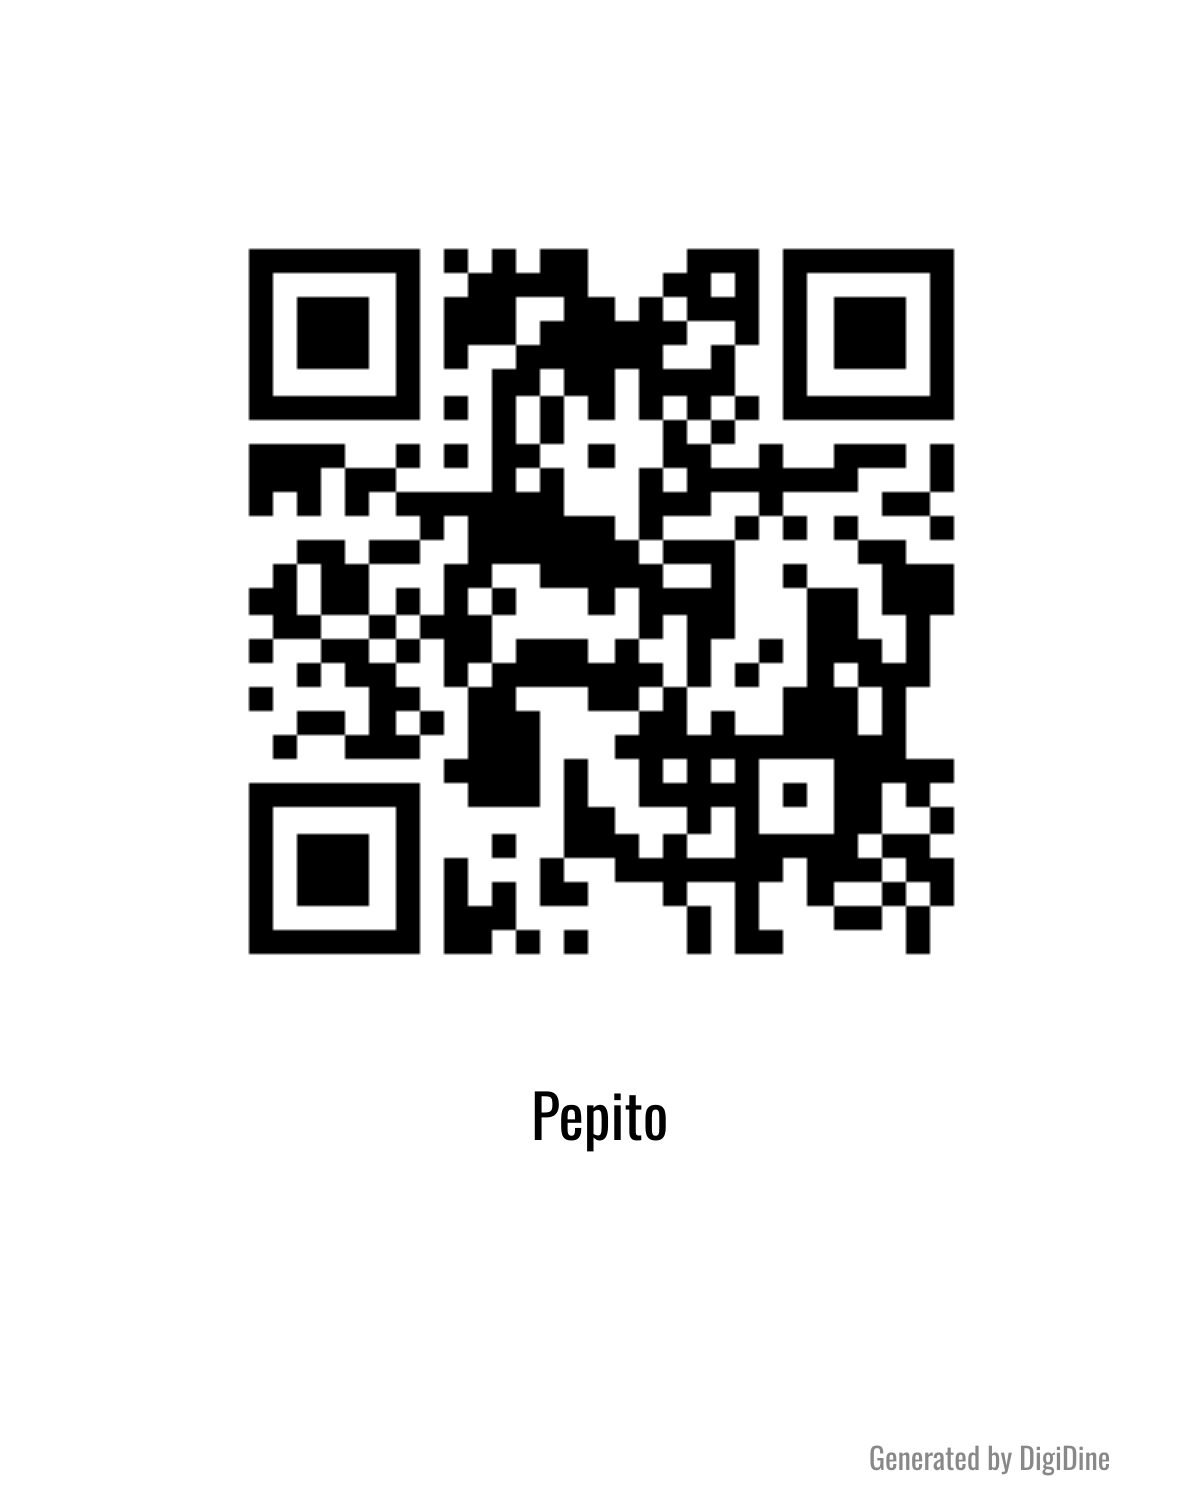
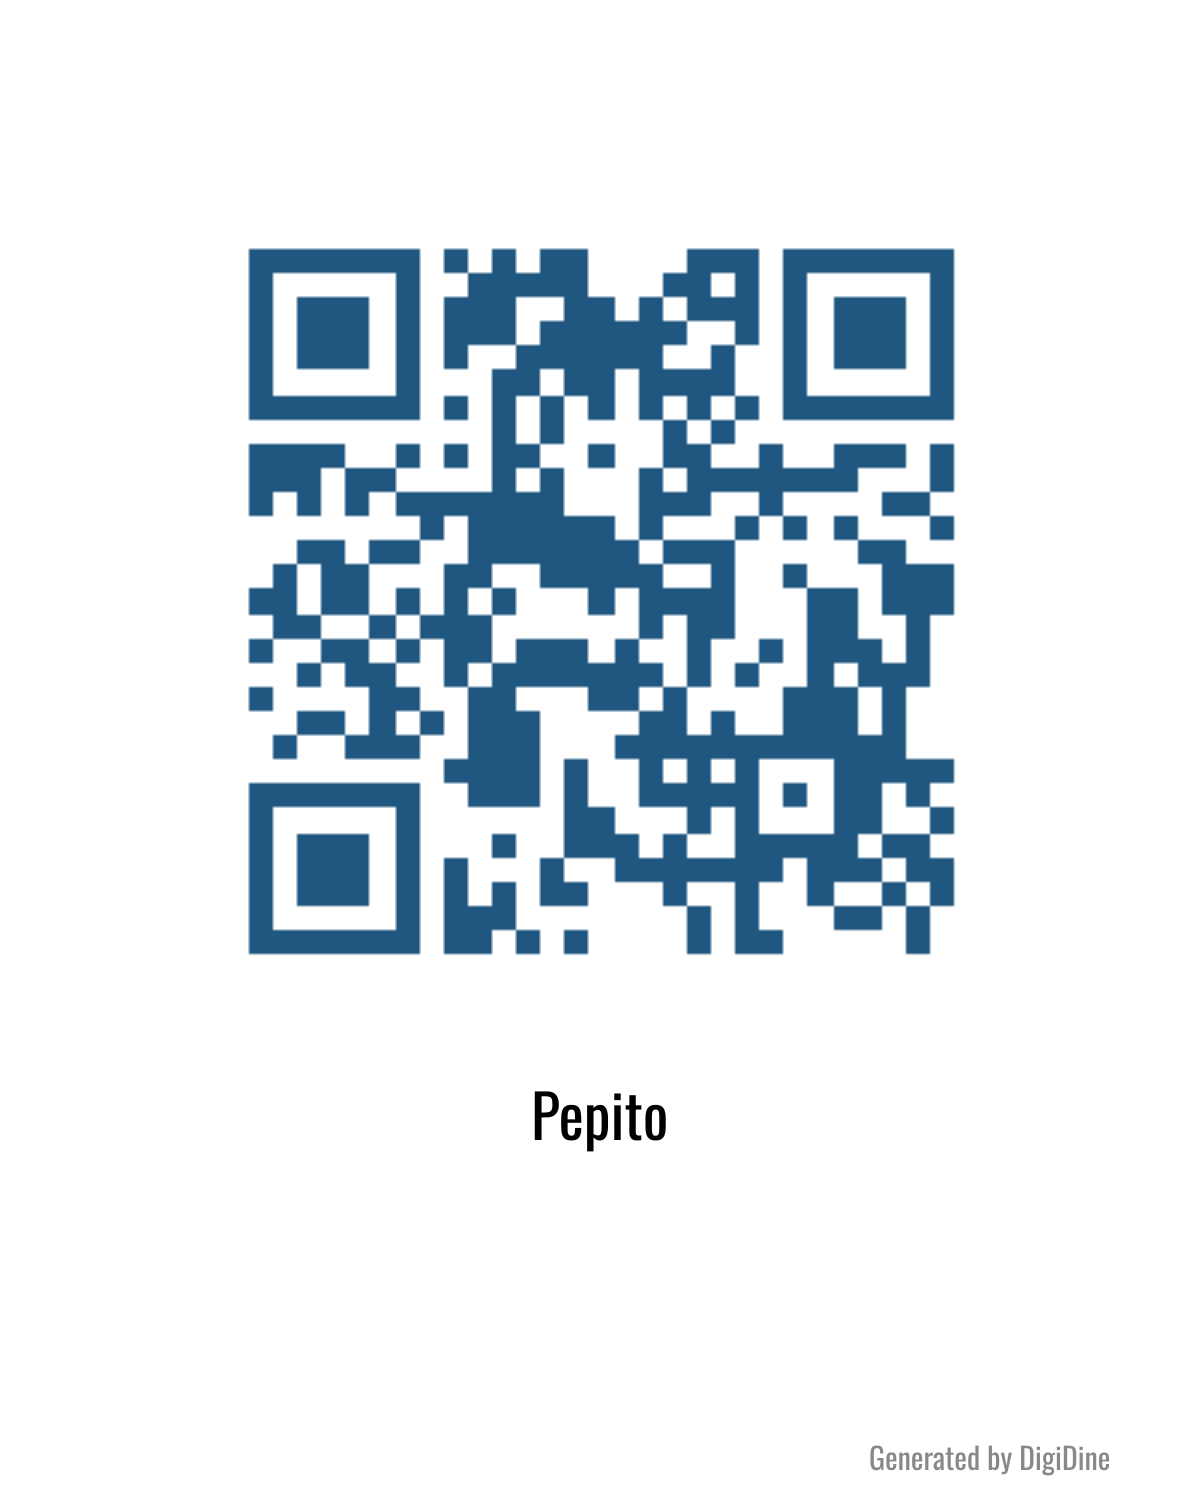
added the image into the cloudinary for storage of qr

Changed region(s): [[0.185, 0.1533, 0.8017, 0.644]]

diff --git a/controllers/qr-code-controller.js b/controllers/qr-code-controller.js
@@ -3,6 +3,8 @@ const fs = require("fs");
 const { createCanvas, loadImage, registerFont } = require("canvas");
 const QRCode = require("qrcode");
 const RestaurantModel = require("../models/restaurant-model");
+const QRCodeModel = require("../models/qrcode-model");
+const { uploadImage } = require("../config/cloudinary");
 
 module.exports.GenerateQRCode = async (req, res) => {
   try {
@@ -15,13 +17,24 @@ module.exports.GenerateQRCode = async (req, res) => {
       return res.status(404).json({ message: "Restaurant not found" });
     }
 
+    let QrColor = req.body.foregroundColor
+      ? req.body.foregroundColor
+      : "#0000ff";
+    let QrCodeBg = req.body.backgroundColor
+      ? req.body.backgroundColor
+      : "#ffffff";
     const slug = restaurant.slug;
     const restaurantName = restaurant.restaurantName;
     const qrUrl = `${process.env.FRONTEND_URI}menu/${slug}`;
+
     const qrDataUrl = await QRCode.toDataURL(qrUrl, {
       errorCorrectionLevel: "L",
       type: "image/png",
       width: 300,
+      color: {
+        dark: QrColor, // Blue
+        light: QrCodeBg, // White
+      },
     });
 
     let fontPathManrope = path.join(
@@ -71,15 +84,37 @@ module.exports.GenerateQRCode = async (req, res) => {
     const filePath = path.join(qrDir, `${slug}.png`);
     const buffer = canvas.toBuffer("image/png");
     fs.writeFileSync(filePath, buffer);
+    const Image = fs.readFileSync(filePath);
 
-    const relativePath = `/uploads/user/qr-code/${slug}.png`;
+    let cloudinaryUploadResponse = await uploadImage(filePath);
+    console.log("cloudinary upload response ", cloudinaryUploadResponse);
+    const relativePath = `public/uploads/user/qr-code/${slug}.png`;
 
-    return res.status(200).json({
-      message: "Custom QR Code generated",
-      qrCodeUrl: relativePath,
+    const StoreQr = await QRCodeModel.create({
+      restaurant: req.user.id,
+      slugUrl: slug,
+      qrImageUrl: cloudinaryUploadResponse.secure_url,
     });
+
+    if (StoreQr) {
+      res.status(200).json({
+        message: "Custom QR Code generated",
+        data: StoreQr,
+        qrCodeUrl: relativePath,
+      });
+    }
   } catch (err) {
     console.error("QR Code generation failed:", err);
     return res.status(500).json({ message: "QR Code generation failed" });
+  }
+};
+
+module.exports.FetchQrCode = async (req, res) => {
+  try {
+    let findQrCode = await QRCodeModel.findOne({ restaurant: req.user.id });
+    if (!findQrCode) return res.status(503).json({ status: 0 });
+    res.status(200).json({ status: 1, data: findQrCode });
+  } catch (err) {
+    console.log(err);
   }
 };

diff --git a/server.js b/server.js
@@ -5,19 +5,29 @@ const routes = require("./routes");
 const dotenv = require("dotenv");
 const cookieParser = require("cookie-parser");
 var cors = require("cors");
+const { configCloudinary } = require("./config/cloudinary");
 
 dotenv.config();
 
 db();
-
+configCloudinary();
 app.use("/public", express.static("public"));
 
 app.use(
   cors({
-    origin: ["http://localhost:3000", "http://127.0.0.1:3000"], // Add both variations
+    origin: [
+      "http://localhost:3000",
+      "http://127.0.0.1:3000",
+      "https://digidine-frontend.vercel.app",
+    ], // Add both variations
     credentials: true,
     methods: ["GET", "POST", "PUT", "DELETE", "OPTIONS"],
-    allowedHeaders: ["Content-Type", "Authorization", "X-Requested-With"],
+    allowedHeaders: [
+      "Content-Type",
+      "Authorization",
+      "X-Requested-With",
+      "Access-Control-Allow-Origin",
+    ],
   })
 );
 const PORT = process.env.PORT || 3000;

diff --git a/config/cloudinary.js b/config/cloudinary.js
@@ -1,0 +1,26 @@
+const cloudinary = require("cloudinary").v2;
+
+//CONFIG KRTE WAQT 3 cheeze hi deni hai
+module.exports.configCloudinary = async () => {
+  try {
+    const cloudinaryResponse = cloudinary.config({
+      cloud_name: process.env.CLOUD_NAME,
+      api_key: process.env.API_KEY,
+      api_secret: process.env.APP_SECRET,
+    });
+    if (cloudinaryResponse)
+      return console.log("cloudinary configured successfully");
+  } catch (err) {
+    console.log("Error while configuring Cloudinary");
+    console.log(err);
+  }
+};
+
+module.exports.uploadImage = async (file) => {
+  try {
+    return await cloudinary.uploader.upload(file); // file is path string
+  } catch (err) {
+    console.log("Upload failed:", err);
+    return null;
+  }
+};

diff --git a/models/restaurant-model.js b/models/restaurant-model.js
@@ -24,12 +24,18 @@ const restaurantSchma = mongoose.Schema({
     type: String,
     default: "classic",
   },
-  // menuItems: [
-  //   {
-  //     type: mongoose.Schema.Types.ObjectId,
-  //     ref: "MenuItem",
-  //   },
-  // ],
+  razorpayCustomerId: { type: String },
+  subscription: [
+    {
+      razorpaySubscriptionId: String,
+      planId: String,
+      status: String, // active, pending, cancelled, etc.
+      currentStart: Date,
+      currentEnd: Date,
+      paymentMethod: String,
+    },
+  ],
+
   createdAt: {
     type: Date,
     default: Date.now,

diff --git a/routes/qr-code-routes.js b/routes/qr-code-routes.js
@@ -1,8 +1,11 @@
 const express = require("express");
 const { verifyToken } = require("../middlewares/auth-middleware");
-const { GenerateQRCode } = require("../controllers/qr-code-controller");
+const {
+  GenerateQRCode,
+  FetchQrCode,
+} = require("../controllers/qr-code-controller");
 const router = express.Router();
 
-router.get("/generate", verifyToken, GenerateQRCode);
-
+router.post("/generate", verifyToken, GenerateQRCode);
+router.get("/fetch", verifyToken, FetchQrCode);
 module.exports = router;

diff --git a/models/payment-subscription-model.js b/models/payment-subscription-model.js
@@ -1,0 +1,18 @@
+const mongoose = require("mongoose");
+const restaurantModel = require("./restaurant-model");
+
+const paymentSchema = mongoose.Schema({
+  restaurantId: {
+    type: mongoose.Types.ObjectId,
+    ref: restaurantModel,
+    require: true,
+  },
+  razorpayPaymentId: String,
+  razorpaySubscriptionId: String,
+  amount: Number,
+  currency: String,
+  status: String,
+  invoiceId: String,
+  paymentMethod: String,
+  createdAt: Date,
+});

diff --git a/models/qrcode-model.js b/models/qrcode-model.js
@@ -37,4 +37,4 @@ const qrCodeSchema = new mongoose.Schema({
   },
 });
 
-module.exports = mongoose.model("QRCode", qrCodeSchema);
+module.exports = mongoose.model("QRCodeModel", qrCodeSchema);
